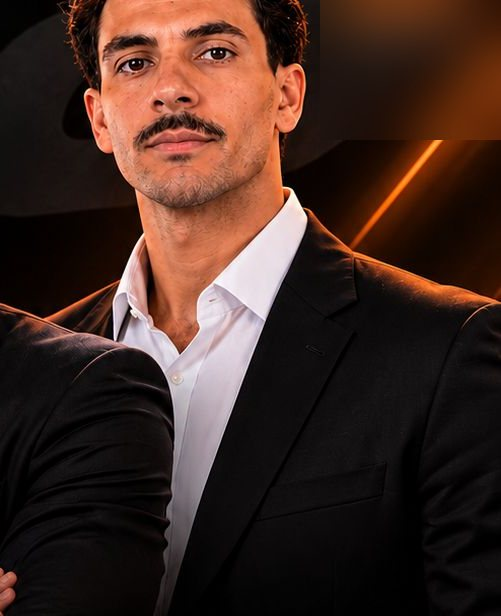
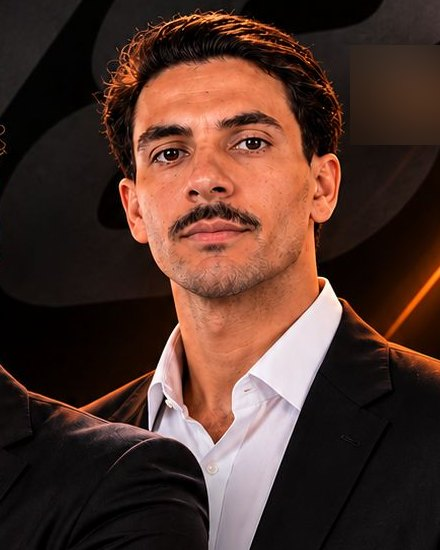
LP: fotos dos sócios centralizadas (cards e Instagram)
Claude-Session: https://claude.ai/code/session_01CHV2ULU1xZh1XtUBrtZjgV

diff --git a/index.html b/index.html
@@ -99,7 +99,7 @@ nav.menu .btn{padding:11px 18px;font-size:12px;color:#140800}
 /* estrategistas */
 .duo{display:grid;grid-template-columns:repeat(2,1fr);gap:24px;margin-top:40px}
 .person{background:var(--card);border:1px solid var(--line);border-radius:24px;overflow:hidden;display:grid;grid-template-columns:200px 1fr}
-.person img{width:100%;height:100%;object-fit:cover;object-position:50% 15%;min-height:260px}
+.person img{width:100%;height:100%;object-fit:cover;object-position:50% 25%;min-height:260px}
 .person > div{padding:26px}
 .person h3{font-size:26px;font-weight:800}
 .person .role{color:#9a9aa2;font:700 12px Inter;letter-spacing:.18em;text-transform:uppercase;margin:6px 0 14px}
@@ -141,10 +141,10 @@ form.apply .hint{color:var(--mu);font-size:14px;margin-top:-6px}
 /* instagram */
 .igcards{display:grid;grid-template-columns:repeat(2,1fr);gap:18px;margin-top:34px}
 .igcard{display:flex;align-items:center;gap:18px;background:var(--card);border:1px solid var(--line);border-radius:20px;padding:20px;text-decoration:none}
-.igcard img{width:72px;height:72px;border-radius:50%;object-fit:cover;object-position:50% 15%;border:1px solid var(--line)}
+.igcard img{width:72px;height:72px;border-radius:50%;object-fit:cover;object-position:50% 22%;border:1px solid var(--line)}
 .igcard h3{font-size:20px}
 .igcard span{color:var(--mu);font-size:14px}
-.igcard .btn{margin-left:auto;padding:12px 16px;font-size:11px}
+.igcard .btn{margin-left:auto;padding:12px 16px;font-size:11px;color:#140800}
 /* rodapé */
 footer{border-top:1px solid var(--line);padding:56px 0 28px;background:#08080a}
 footer .cols{display:grid;grid-template-columns:1.4fr 1fr 1fr;gap:30px}
